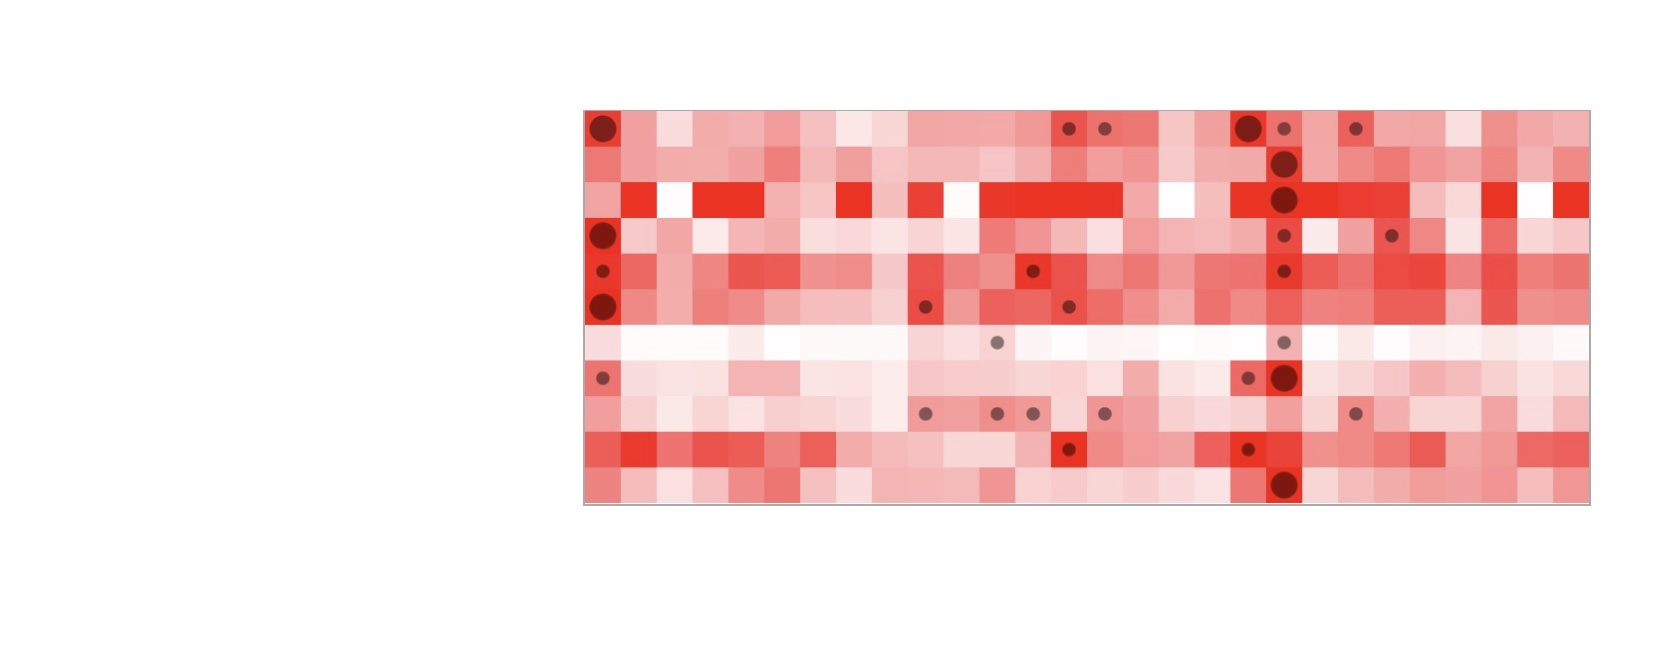
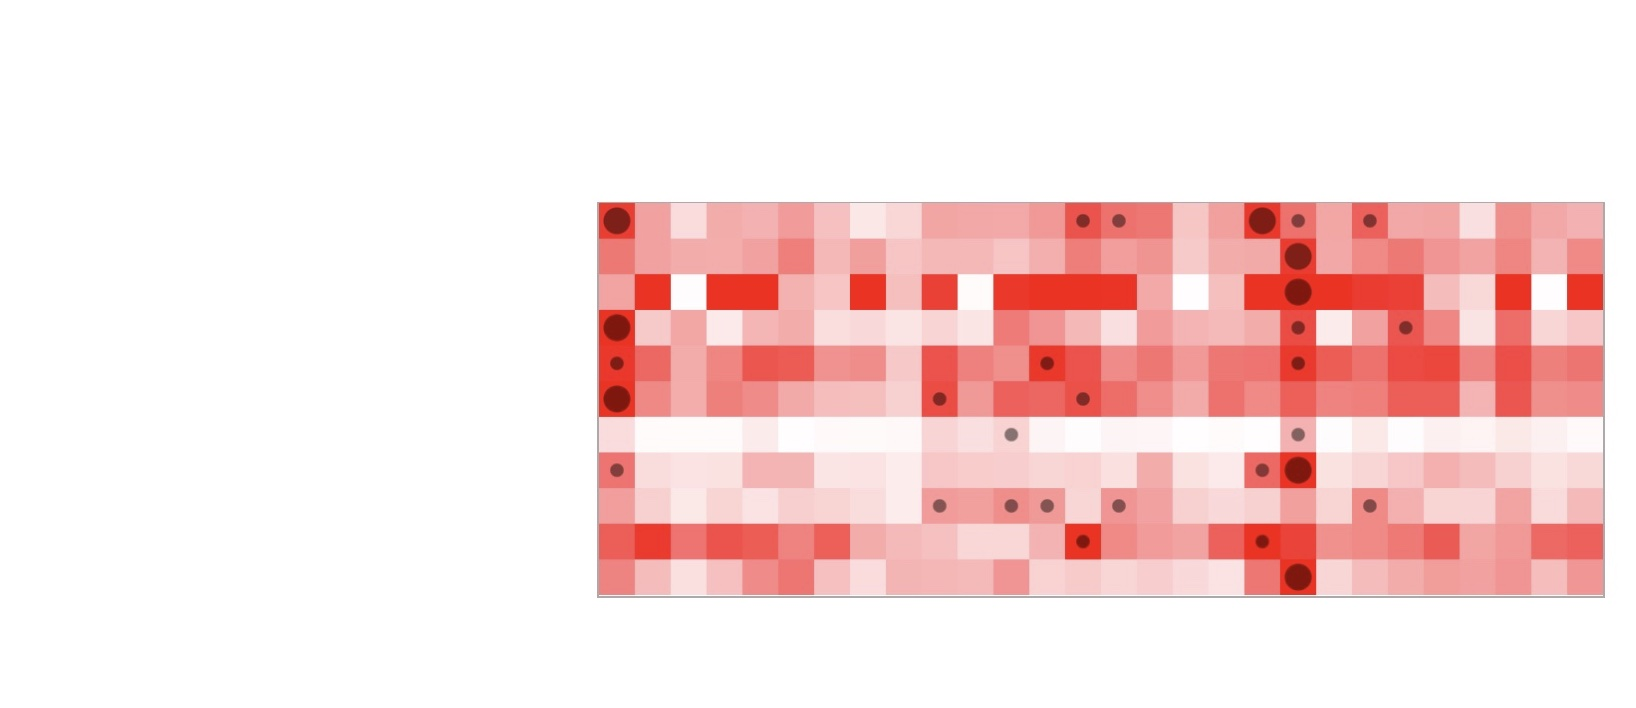
playing with heatmap background size

diff --git a/components/configcomponents/visualizers/Manhattan.vue b/components/configcomponents/visualizers/Manhattan.vue
@@ -2,7 +2,7 @@
   <div class="row">
     <div class="col-md-2" id="leftFieldWrapper">
       <div id="leftField" v-if="editingFieldset !== ''">
-        <div v-if="editingFieldset === 'x-button'">
+        <div v-if="editingFieldset === 'manhattan-x'">
           <tbody class="pad-field">
             <tr>
               <td class="popup-field-label">
@@ -29,7 +29,7 @@
             </tr>
           </tbody>
         </div>
-        <div v-else-if="editingFieldset === 'y-button'">
+        <div v-else-if="editingFieldset === 'manhattan-y'">
           <tbody class="pad-field">
             <tr>
               <td class="popup-field-label">
@@ -56,7 +56,7 @@
             </tr>
           </tbody>
         </div>
-        <div v-else-if="editingFieldset === 'render-by'">
+        <div v-else-if="editingFieldset === 'manhattan-render'">
           <tbody>
             <tr class="pad-field">
               <td class="popup-field-label">
@@ -101,7 +101,7 @@
             </tr>
           </tbody>
         </div>
-        <div v-else-if="editingFieldset === 'graphic-format'">
+        <div v-else-if="editingFieldset === 'manhattan-graphic'">
           <tbody class="pad-field">
             <tr>
               <td class="popup-field-label">
@@ -135,25 +135,25 @@
       </div>
     </div>
     <div id="manhattan-gui" class="col-md-9 viz-gui">
-      <button id="y-button" class="btn btn-primary btn-sm gui-btn" @click="editFieldset('y-button')">
+      <button id="manhattan-y" class="btn btn-primary btn-sm gui-btn" @click="editFieldset('manhattan-y')">
         <span class="pencil">&#9998;</span>
         <span class="item-done" hidden>&check;</span>
         <span class="item-undone" hidden>&#9888;</span>
         Y-axis field
       </button>
-      <button id="x-button" class="btn btn-primary btn-sm gui-btn" @click="editFieldset('x-button')">
+      <button id="manhattan-x" class="btn btn-primary btn-sm gui-btn" @click="editFieldset('manhattan-x')">
         <span class="pencil">&#9998;</span>
         <span class="item-done" hidden>&check;</span>
         <span class="item-undone" hidden>&#9888;</span>
         X-axis field
       </button>
-      <button id="render-by" class="btn btn-primary btn-sm gui-btn" @click="editFieldset('render-by')">
+      <button id="manhattan-render" class="btn btn-primary btn-sm gui-btn" @click="editFieldset('manhattan-render')">
         <span class="pencil">&#9998;</span>
         <span class="item-done" hidden>&check;</span>
         <span class="item-undone" hidden>&#9888;</span>
         Render by
       </button>
-      <button id="graphic-format" class="btn btn-primary btn-sm gui-btn" @click="editFieldset('graphic-format')">
+      <button id="manhattan-graphic" class="btn btn-primary btn-sm gui-btn" @click="editFieldset('manhattan-graphic')">
         <span class="pencil">&#9998;</span>
         <span class="item-done" hidden></span>
         <span class="item-undone" hidden>&#9888;</span>
@@ -200,15 +200,15 @@
     return JSON.stringify(config);
   });
   const CHECK_DONE = {
-    "x-button": {
+    "manhattan-x": {
         condition: () => xAxisField.value === "" || xAxisLabel.value === "",
         msg: "Specify field and label for X-axis."
       },
-    "y-button": {
+    "manhattan-y": {
         condition: () => yAxisField.value === "" || yAxisLabel.value === "",
         msg: "Specify field and label for Y-axis."
       },
-    "render-by": {
+    "manhattan-render": {
       condition: () => renderBy.value === "",
       msg: "Specify field to render by."
     }

diff --git a/components/configcomponents/visualizers/Heatmap.vue b/components/configcomponents/visualizers/Heatmap.vue
@@ -261,18 +261,22 @@
         <span class="item-undone" hidden>&#9888;</span>
         Font size
       </button>
-      <button id="heatmap-main" class="btn btn-primary btn-sm gui-btn" @click="editFieldset('heatmap-main')">
-        <span class="pencil">&#9998;</span>
-        <span class="item-done" hidden>&check;</span>
-        <span class="item-undone" hidden>&#9888;</span>
-        Box color coding
-      </button>
-      <button id="heatmap-sub" class="btn btn-primary btn-sm gui-btn" @click="editFieldset('heatmap-sub')">
-        <span class="pencil">&#9998;</span>
-        <span class="item-done" hidden>&check;</span>
-        <span class="item-undone" hidden>&#9888;</span>
-        Sub circle scaling
-      </button>
+      <div id="heatmap-main-wrapper">
+        <button id="heatmap-main" class="btn btn-primary btn-sm gui-btn" @click="editFieldset('heatmap-main')">
+          <span class="pencil">&#9998;</span>
+          <span class="item-done" hidden>&check;</span>
+          <span class="item-undone" hidden>&#9888;</span>
+          Box color coding
+        </button>
+      </div>
+      <div id="heatmap-sub-wrapper">
+        <button id="heatmap-sub" class="btn btn-primary btn-sm gui-btn" @click="editFieldset('heatmap-sub')">
+          <span class="pencil">&#9998;</span>
+          <span class="item-done" hidden>&check;</span>
+          <span class="item-undone" hidden>&#9888;</span>
+          Sub circle scaling
+        </button>
+      </div>
     </div>
   </div>
 </template>

diff --git a/public/css/configbuilder.css b/public/css/configbuilder.css
@@ -270,30 +270,51 @@ sup.required {
 	margin-bottom: 20px;
 }
 .gui-btn {
+	position: relative;
     background-color: #eeeeee;
     border: 1px solid #dddddd;
     border-radius: 15px;
     color: #333333;
   }
-  #y-button {
-    position: relative;
+  #manhattan-y {
     top: 110px;
     left: -6px;
   }
-  #x-button {
-    position: relative;
+  #manhattan-x {
     top: 188px;
     left: 280px;
   }
-  #render-by {
-    position: relative;
+  #manhattan-render {
     top: 110px;
     left: 80px;
   }
-  #graphic-format {
-    position: relative;
+  #manhattan-graphic {
     top: 35px;
     left: -315px;
+  }
+  #heatmap-column {
+	top: 60px;
+	left: 450px;
+  }
+  #heatmap-row {
+	top: 180px;
+	left: 66px;
+  }
+  #heatmap-plot-label {
+	top: 305px;
+	left: 150px;
+  }
+  #heatmap-font-size {
+	top: 85px;
+	left: -300px;
+  }
+  #heatmap-main-wrapper {
+	position: relative;
+	top: -25px;
+  }
+  #heatmap-sub-wrapper {
+	position: relative;
+	top: -15px;
   }
   .pad-field td {
     padding: 5px;
@@ -315,7 +336,7 @@ sup.required {
   }
   #heatmap-gui {
 	background-image: url("assets/images/heatmap_crop_wide.jpg");
-	height: 300px;
+	height: 350px;
   }
   #leftFieldWrapper {
     width: 25%;
